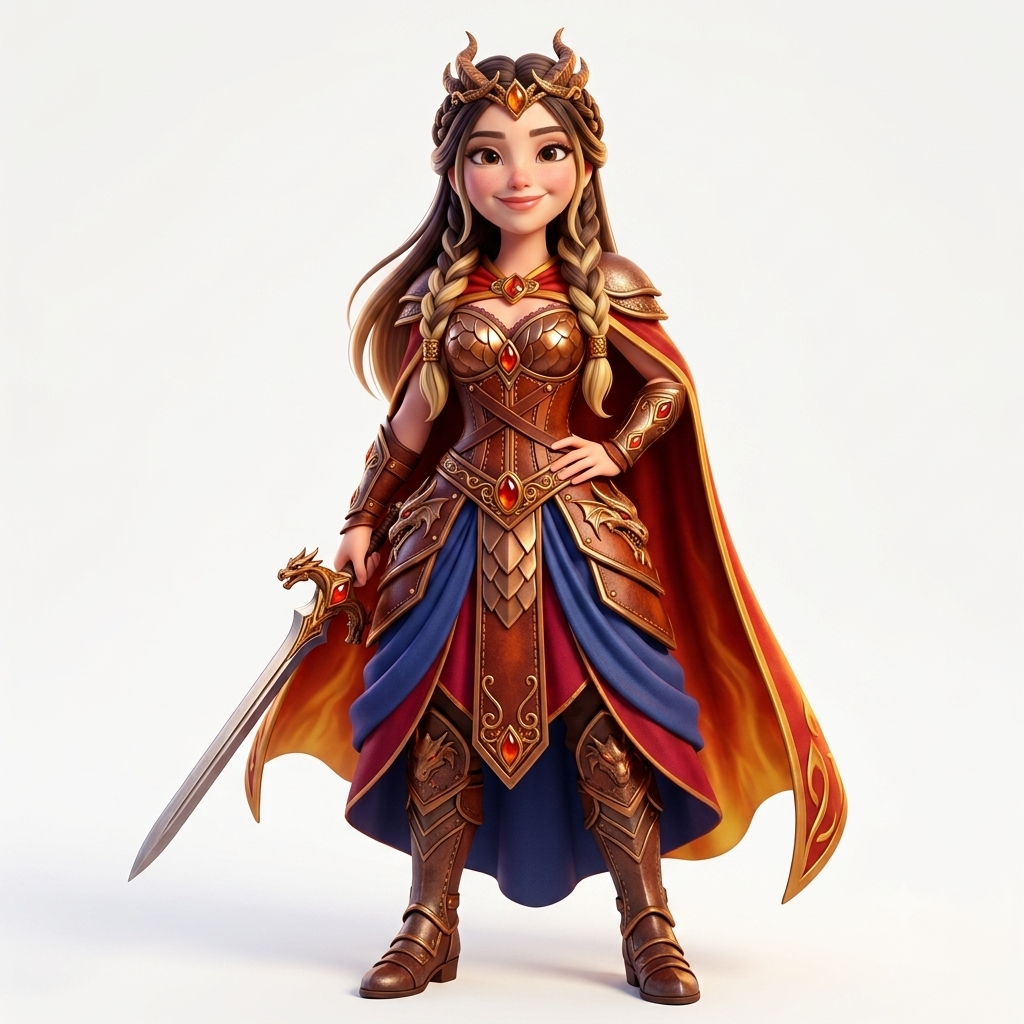
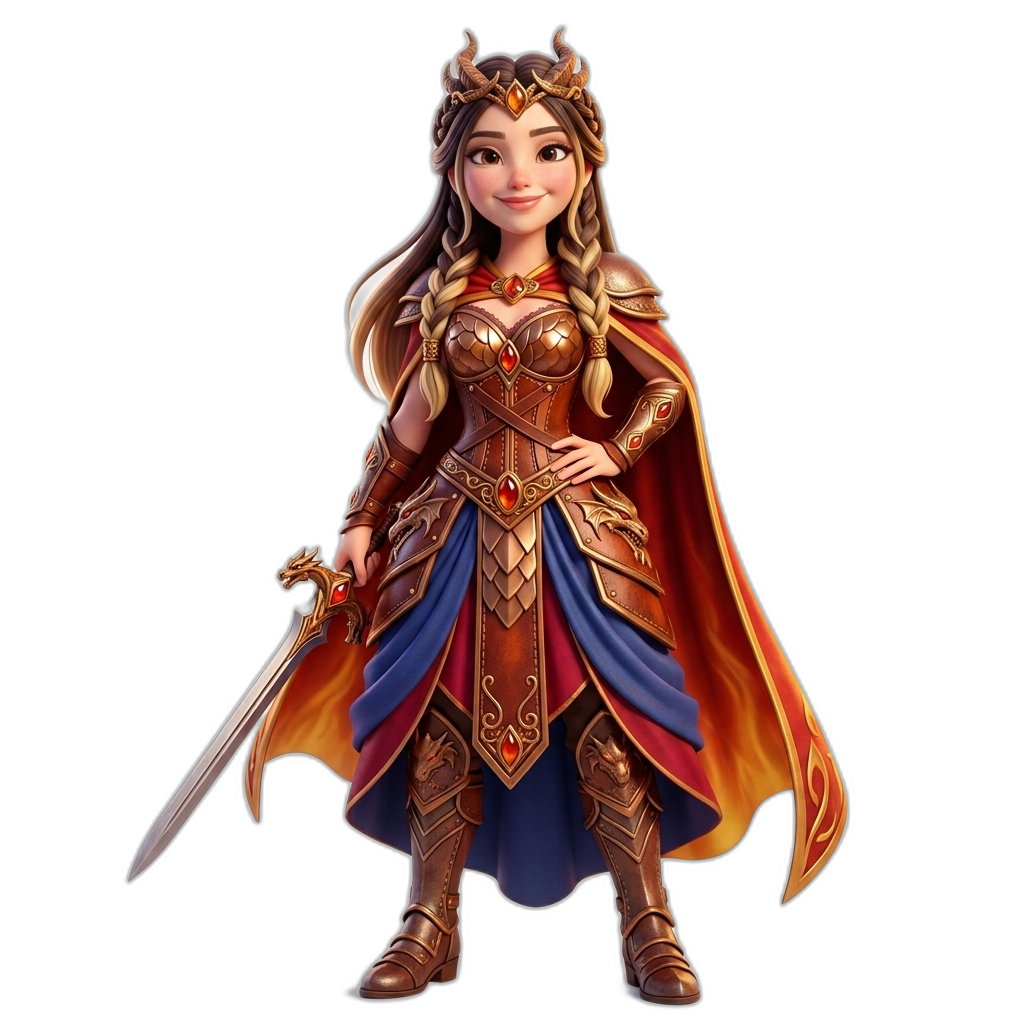
fix: scontorna sacerdotessa del sole e principessa dei draghi (rembg)
Rimosso sfondo bianco con rembg/u2net — entrambi i PNG ora hanno
trasparenza alpha. Aggiornato riferimento sacerdotessa da .jpg a .png.
SW v289.

Claude-Session: https://claude.ai/code/session_01KQdFgyEFf2Ai8HPN3qjCmk

diff --git a/app.js b/app.js
@@ -33,7 +33,7 @@ const AVATARS = [
   { path: 'assets/avatars/regina.png',            storyId: 'regina',           label: 'La Regina Oscura' },
   { path: 'assets/avatars/predone.png',           storyId: 'predone',          label: 'Il Re dei Predoni' },
   { path: 'assets/avatars/principessa-ghiacci.png', storyId: 'principessa_ghiacci', label: 'La Principessa dei Ghiacci' },
-  { path: 'assets/avatars/sacerdotessa-sole.jpg',   storyId: 'sacerdotessa_sole',   label: 'La Sacerdotessa del Sole' },
+  { path: 'assets/avatars/sacerdotessa-sole.png',   storyId: 'sacerdotessa_sole',   label: 'La Sacerdotessa del Sole' },
   { path: 'assets/avatars/principessa-draghi.png',  storyId: 'principessa_draghi',  label: 'La Principessa dei Draghi' },
 ];
 

diff --git a/sw.js b/sw.js
@@ -5,7 +5,7 @@
 
 
 
-const CACHE = 'heropace-v288';
+const CACHE = 'heropace-v289';
 const NOTIF_CACHE = 'heropace-notif-v1'; // stato notifiche (non cancellare mai)
 
 /* File solo per fallback offline — NON pre-cachati all'install */
